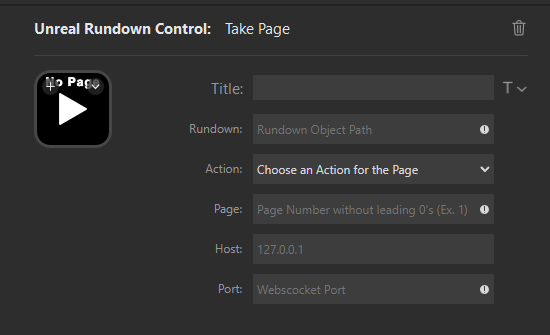
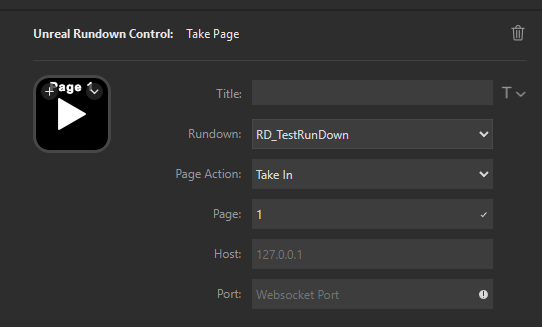
Updated rundown setting in read me and settings screenshot

diff --git a/README.md b/README.md
@@ -17,19 +17,19 @@ Ensure that you are running the Rundow Messaging server. You can run "MotionDesi
 
 There are 5 settings for the Take plugin action which is the action that allows you to take in or out a rundown page.
 
-**Rundown** - The object path to your rundown asset you are wanting to control. You can get this by going to your asset in your Content Browser and right cliking then selecting copy object path
+**Rundown** - Rundown that you would like to control. Automatically fetches available rundowns in your project once connected to websocket messaging server(IP and Port must be set and Unreal with rundown server must be running)
 
 **Action** - This is where you set whether you want to Take In or Take Out the desired page. Switching this setting will also switch the Icon however manually setting a different Icon will override that. *It is planned to allow Preview in and out as well.*
 
 **Page** - The page that you want to control in your rundown. Enter the number of the page without the leading 0's so page 0001 is just entered as 1. The page number is used in the title of the button to see what page the button is changing.
 
-**Host** - The IP for the host server running Unreal. You can just enter 1270.0.1 for your local machine. *Planning on making that a default value so it does not need to be entered every time.*
+**Host** - The IP for the host server running Unreal, by default is set to "127.0.0.1". If you enter a new value then remove it, the default will be set and used.
 
-**Port** - This is the port that you set your Web Socket Messaging to use in your project settings.
+**Port** - This is the port that you set your Web Socket Messaging to use in your project settings. There is no default you must enter this value manually.
 
 ## Contact
 
-If you are have any feature requests or find bugs you can contact me via email or discord.
+If you are have any issues, feature requests, or find bugs, you can contact me via email or discord.
 
 Email: afadedknight@gmail.com
 Discord: afadedknight
